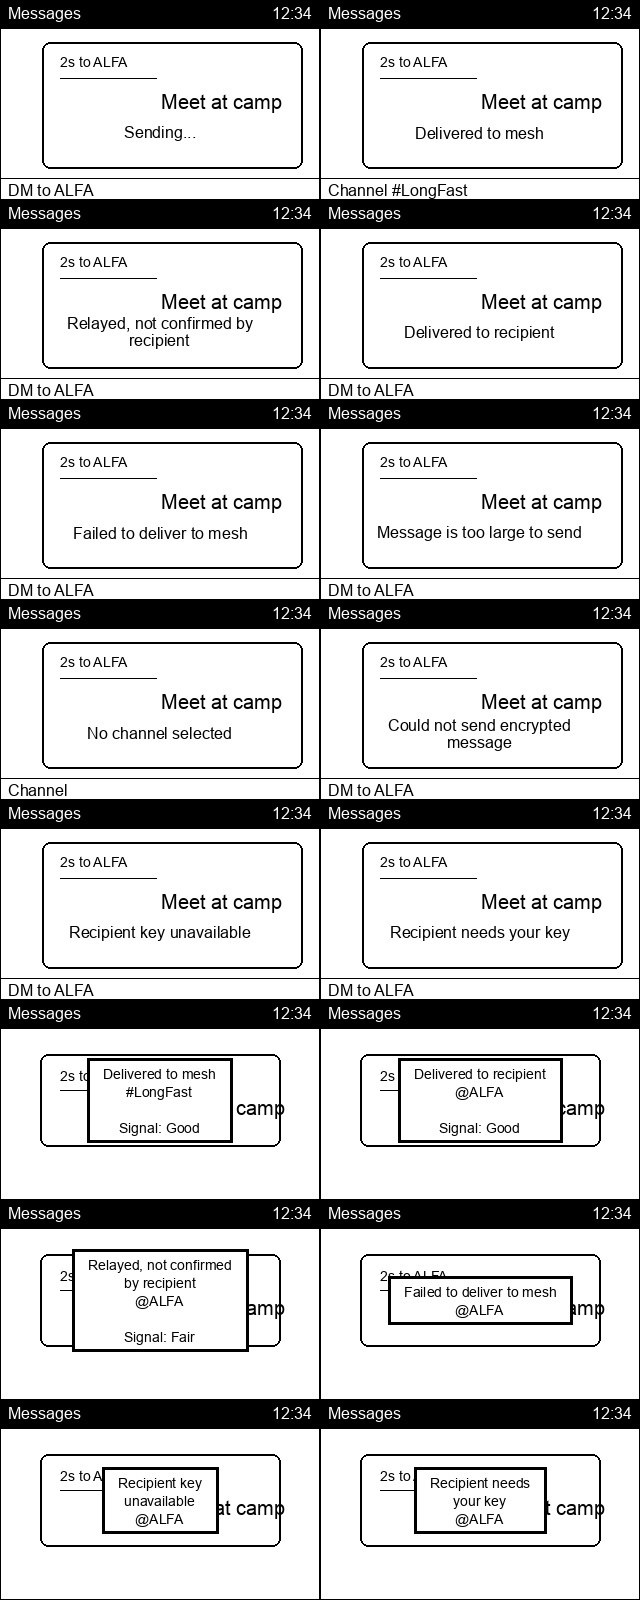
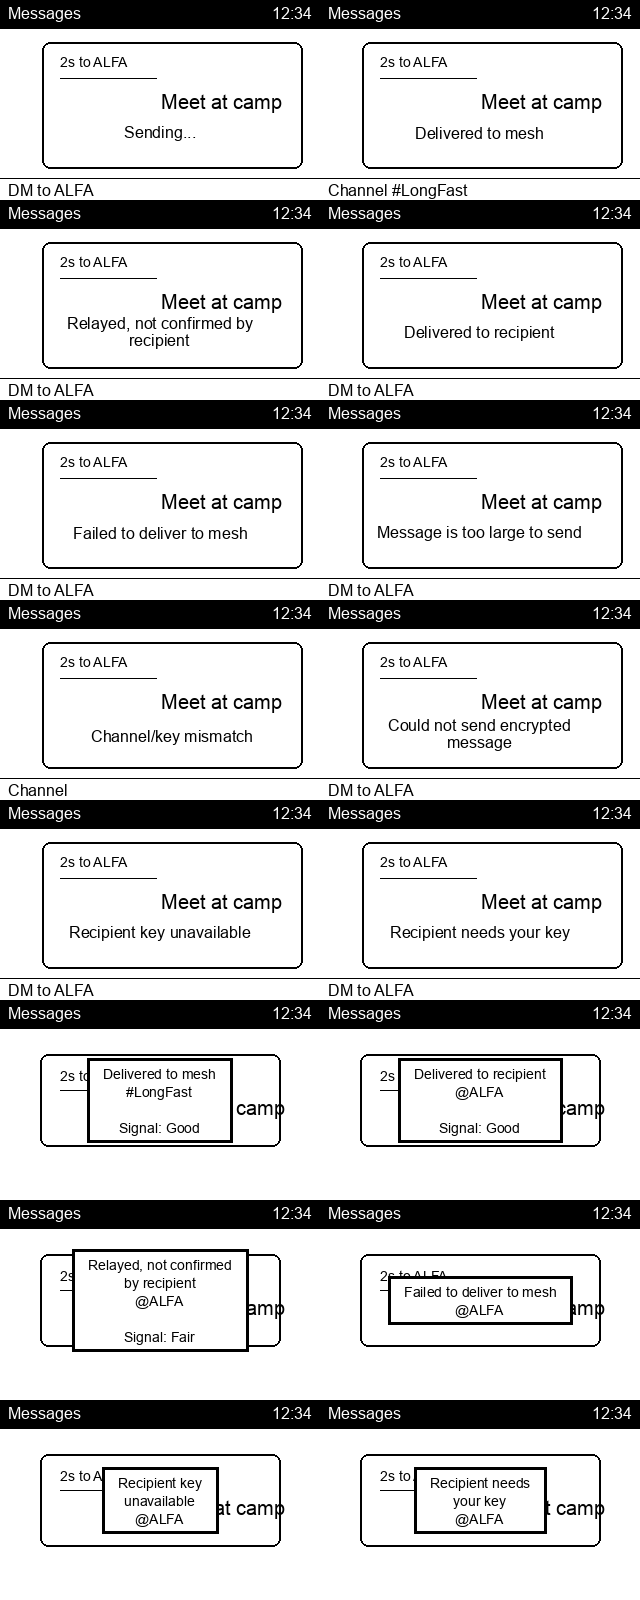
Fix Base UI channel status tracking

Changed region(s): [[0.125, 0.4375, 0.375, 0.4688]]

diff --git a/test/test_message_status_text/test_main.cpp b/test/test_message_status_text/test_main.cpp
@@ -34,7 +34,7 @@ static void ensureLocalNodeNum(NodeNum localNode)
     myNodeInfo.my_node_num = localNode;
 }
 
-static meshtastic_MeshPacket makePhoneDm(PacketId packetId, NodeNum dest)
+static meshtastic_MeshPacket makePhoneText(PacketId packetId, NodeNum dest)
 {
     meshtastic_MeshPacket packet = meshtastic_MeshPacket_init_default;
     packet.from = 0;
@@ -96,7 +96,7 @@ static void test_message_too_large_text()
 static void test_no_channel_text()
 {
     StoredMessage message = makeMessage(AckStatus::NO_CHANNEL, NODENUM_BROADCAST);
-    TEST_ASSERT_EQUAL_STRING("No channel selected", graphics::MessageStatusText::inlineTextFor(message));
+    TEST_ASSERT_EQUAL_STRING("Channel/key mismatch", graphics::MessageStatusText::inlineTextFor(message));
 }
 
 static void test_pki_failure_text()
@@ -206,7 +206,7 @@ static void test_phone_originated_dm_is_tracked_from_packet()
     ensureLocalNodeNum(localNode);
     MessageStore store("phone_dm_tracking");
 
-    const StoredMessage &stored = store.addFromPacket(makePhoneDm(packetId, destNode));
+    const StoredMessage &stored = store.addFromPacket(makePhoneText(packetId, destNode));
 
     TEST_ASSERT_EQUAL_UINT32(localNode, stored.sender);
     TEST_ASSERT_EQUAL_UINT32(destNode, stored.dest);
@@ -214,6 +214,32 @@ static void test_phone_originated_dm_is_tracked_from_packet()
     TEST_ASSERT_TRUE(stored.ackTrackable);
     assertAckStatus(AckStatus::NONE, stored.ackStatus);
     assertInlineText("Sending...", stored);
+}
+
+static void test_phone_originated_channel_is_stored_untrackable_from_packet()
+{
+    constexpr NodeNum localNode = 0x11111111;
+    constexpr NodeNum relayNode = 0x33333333;
+    constexpr PacketId packetId = 0xaaaa0001;
+
+    ensureLocalNodeNum(localNode);
+    MessageStore store("phone_channel_untracked");
+
+    const StoredMessage &stored = store.addFromPacket(makePhoneText(packetId, NODENUM_BROADCAST));
+
+    TEST_ASSERT_EQUAL_UINT32(localNode, stored.sender);
+    TEST_ASSERT_EQUAL_UINT32(NODENUM_BROADCAST, stored.dest);
+    TEST_ASSERT_EQUAL_UINT32(packetId, stored.packetId);
+    TEST_ASSERT_FALSE(stored.ackTrackable);
+    assertAckStatus(AckStatus::NONE, stored.ackStatus);
+    assertInlineText("", stored);
+
+    TEST_ASSERT_FALSE(store.updateAckStatusFromRouting(localNode, packetId, relayNode, meshtastic_Routing_Error_NONE));
+
+    const auto &messages = store.getMessages();
+    TEST_ASSERT_EQUAL_UINT32(1U, messages.size());
+    assertAckStatus(AckStatus::NONE, messages.front().ackStatus);
+    assertInlineText("", messages.front());
 }
 
 static void test_phone_originated_dm_updates_from_routing_status()
@@ -230,12 +256,12 @@ static void test_phone_originated_dm_updates_from_routing_status()
 
     ensureLocalNodeNum(localNode);
     MessageStore store("phone_dm_status");
-    store.addFromPacket(makePhoneDm(deliveredPacket, destNode));
-    store.addFromPacket(makePhoneDm(relayedPacket, destNode));
-    store.addFromPacket(makePhoneDm(failedPacket, destNode));
-    store.addFromPacket(makePhoneDm(pkiMissingRecipientKeyPacket, destNode));
-    store.addFromPacket(makePhoneDm(pkiRecipientMissingSenderKeyPacket, destNode));
-    store.addFromPacket(makePhoneDm(tooLargePacket, destNode));
+    store.addFromPacket(makePhoneText(deliveredPacket, destNode));
+    store.addFromPacket(makePhoneText(relayedPacket, destNode));
+    store.addFromPacket(makePhoneText(failedPacket, destNode));
+    store.addFromPacket(makePhoneText(pkiMissingRecipientKeyPacket, destNode));
+    store.addFromPacket(makePhoneText(pkiRecipientMissingSenderKeyPacket, destNode));
+    store.addFromPacket(makePhoneText(tooLargePacket, destNode));
 
     TEST_ASSERT_TRUE(store.updateAckStatusFromRouting(localNode, deliveredPacket, destNode, meshtastic_Routing_Error_NONE));
     TEST_ASSERT_TRUE(store.updateAckStatusFromRouting(localNode, relayedPacket, relayNode, meshtastic_Routing_Error_NONE));
@@ -288,6 +314,7 @@ void setup()
     RUN_TEST(test_message_store_updates_matching_packet_id);
     RUN_TEST(test_message_store_does_not_update_untracked_pending_message);
     RUN_TEST(test_phone_originated_dm_is_tracked_from_packet);
+    RUN_TEST(test_phone_originated_channel_is_stored_untrackable_from_packet);
     RUN_TEST(test_phone_originated_dm_updates_from_routing_status);
 #endif
 

diff --git a/src/mesh/MeshService.cpp b/src/mesh/MeshService.cpp
@@ -195,13 +195,13 @@ void MeshService::handleToRadio(meshtastic_MeshPacket &p)
 
     p.rx_time = getValidTime(RTCQualityFromNet); // Record the time the packet arrived from the phone
 
-    IF_SCREEN(if (p.decoded.portnum == meshtastic_PortNum_TEXT_MESSAGE_APP && p.decoded.payload.size > 0 &&
-                  p.to != NODENUM_BROADCAST && p.to != 0) // DM only
-              {
-                  perhapsDecode(&p);
-                  const StoredMessage &sm = messageStore.addFromPacket(p);
-                  graphics::MessageRenderer::handleNewMessage(nullptr, sm, p); // notify UI
-              })
+    IF_SCREEN(if (p.decoded.portnum == meshtastic_PortNum_TEXT_MESSAGE_APP && p.decoded.payload.size > 0 && p.to != 0) {
+        // Store local phone text in Base UI history. MessageStore only
+        // tracks directed sends, so channel sends do not show false pending status.
+        perhapsDecode(&p);
+        const StoredMessage &sm = messageStore.addFromPacket(p);
+        graphics::MessageRenderer::handleNewMessage(nullptr, sm, p); // notify UI
+    })
     // Send the packet into the mesh
     DEBUG_HEAP_BEFORE;
     auto a = packetPool.allocCopy(p);

diff --git a/src/modules/CannedMessageModule.cpp b/src/modules/CannedMessageModule.cpp
@@ -1047,7 +1047,8 @@ void CannedMessageModule::sendText(NodeNum dest, ChannelIndex channel, const cha
     meshtastic_MeshPacket *p = allocDataPacket();
     p->to = dest;
     p->channel = channel;
-    p->want_ack = true;
+    const bool expectsRoutingStatus = dest != 0 && !isBroadcast(dest);
+    p->want_ack = expectsRoutingStatus;
     p->decoded.dest = dest; // Mirror picker: NODENUM_BROADCAST or node->num
 
     this->lastSentNode = dest;
@@ -1082,7 +1083,7 @@ void CannedMessageModule::sendText(NodeNum dest, ChannelIndex channel, const cha
         p->decoded.payload.bytes[p->decoded.payload.size] = '\0';
     }
 
-    this->waitingForAck = true;
+    this->waitingForAck = expectsRoutingStatus && this->lastRequestId != 0;
 
     // Send to mesh (PKI-encrypted if conditions above matched)
     service->sendToMesh(p, RX_SRC_LOCAL, true);
@@ -1127,8 +1128,10 @@ void CannedMessageModule::sendText(NodeNum dest, ChannelIndex channel, const cha
         }
     }
     sm.ackStatus = AckStatus::NONE;
-    sm.ackTrackable = true;
     sm.packetId = this->lastRequestId;
+    // Broadcast want_ack is stripped before transmit, so only directed sends have
+    // a production routing response that can update this stored message.
+    sm.ackTrackable = expectsRoutingStatus && sm.packetId != 0;
 
     messageStore.addLiveMessage(std::move(sm));
 

diff --git a/src/MessageStore.cpp b/src/MessageStore.cpp
@@ -206,11 +206,13 @@ const StoredMessage &MessageStore::addFromPacket(const meshtastic_MeshPacket &pa
     sm.dest = packet.to;
     sm.packetId = packet.id;
 
-    bool isDM = (sm.dest != 0 && sm.dest != NODENUM_BROADCAST);
+    bool isDM = (sm.dest != 0 && !isBroadcast(sm.dest));
 
     sm.type = isDM ? MessageType::DM_TO_US : MessageType::BROADCAST;
     bool isLocalOutgoing = packet.from == 0;
     sm.ackStatus = isLocalOutgoing ? AckStatus::NONE : AckStatus::ACKED;
+    // Only directed local sends have a routing response the Base UI can match.
+    // Channel sends are stored untrackable so AckStatus::NONE renders no inline pending text.
     sm.ackTrackable = isLocalOutgoing && isDM && sm.packetId != 0;
 
 #if !(MESHTASTIC_EXCLUDE_PKI_KEYGEN || MESHTASTIC_EXCLUDE_PKI)

diff --git a/src/graphics/draw/MessageStatusText.cpp b/src/graphics/draw/MessageStatusText.cpp
@@ -22,7 +22,7 @@ const char *inlineTextFor(const StoredMessage &message)
     case AckStatus::TOO_LARGE:
         return "Message is too large to send";
     case AckStatus::NO_CHANNEL:
-        return "No channel selected";
+        return "Channel/key mismatch";
     case AckStatus::PKI_FAILED:
         return "Could not send encrypted message";
     case AckStatus::PKI_UNKNOWN_PUBKEY: